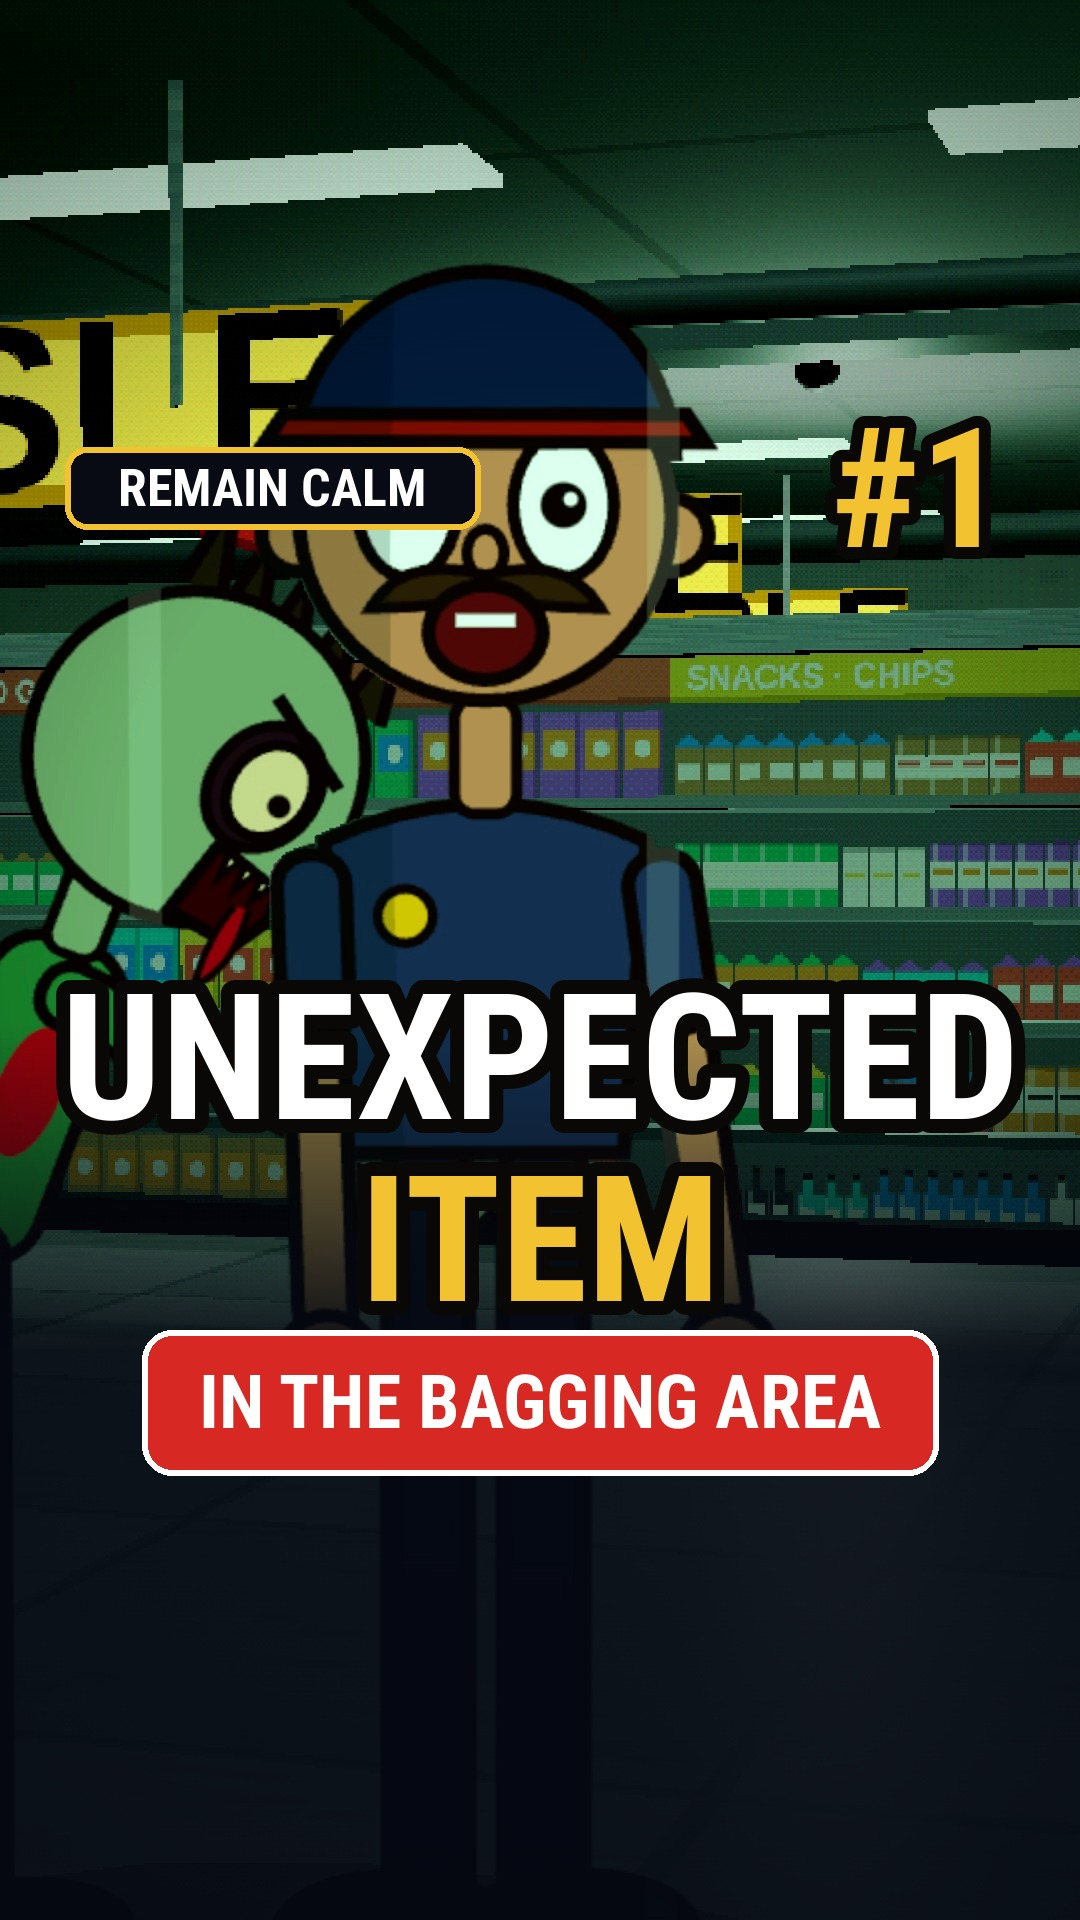
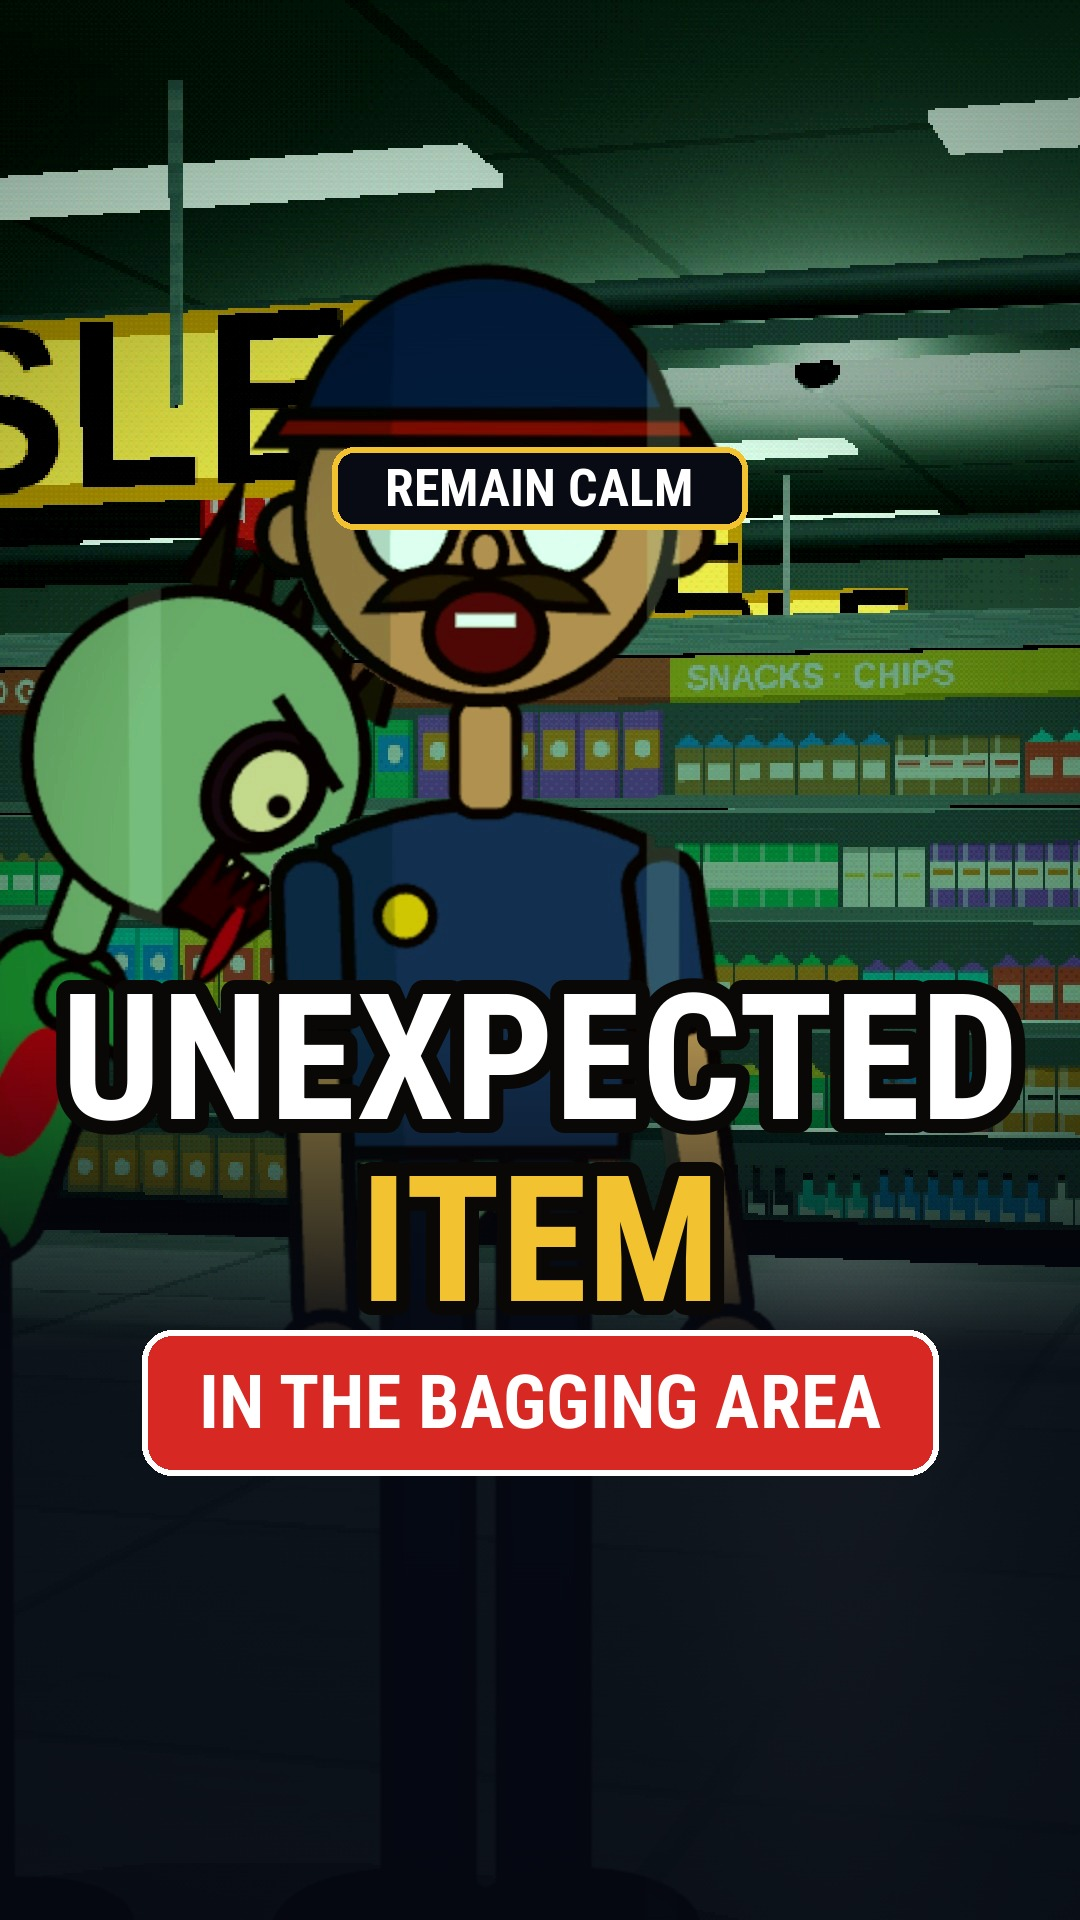
Covers without sequence numbers; redo-capable batch posting script
Claude-Session: https://claude.ai/code/session_01AhwUxu1FBH8sDaZQZihRT9

Changed region(s): [[0.0611, 0.2188, 0.7028, 0.2812], [0.7639, 0.2188, 0.9167, 0.3125]]

diff --git a/studio/autopilot/post_batch1.py b/studio/autopilot/post_batch1.py
@@ -17,6 +17,14 @@ M=[ # id, order, title, extra tags, tt/ig hook, description line
  ('i4','If the zombie apocalypse starts while you\'re in the parking lot… don\'t run to your car','parking lot, dont run, how to stay calm','Calm gets you to the car. Fear gets you noticed.','Real tip: when you are startled, a long slow exhale helps you settle.'),
  ('i3','If the zombie apocalypse starts while you\'re in the checkout line… don\'t look back','checkout line, dont look back, queue','Pay. Smile. Walk out slowly.','Real tip: when you are scared, a slow exhale helps you calm down.'),
  ('g8','POV: You\'re locked out of the supermarket and a zombie asks if they\'re open','locked out, closed sign, pov','We\'re closed.','Sorry, sir. Please remain calm.')]
+import buffer_api as B
+def wipe(s,c):
+    for k,p in list((c.get('posts') or {}).items()):
+        r=B.gql('mutation($input: DeletePostInput!){ deletePost(input:$input){ __typename } }',dict(input=dict(id=p)))
+        t=((r.get('data') or {}).get('deletePost') or {}).get('__typename')
+        if not t or 'Error' in t or r.get('errors'):ST.save(s);raise SystemExit(f'{c["id"]} delete {k} failed (rate limit?): {str(r)[:160]}')
+        del c['posts'][k];time.sleep(1.0)
+    c['posts']={};c['status']='ready';c.pop('media_day',None);ST.save(s)
 def main():
     s=ST.load();start=dt.datetime(2026,11,1,0,30);n=0
     for i,(k,title,xt,hook,desc) in enumerate(M):
@@ -29,11 +37,12 @@ def main():
              tt=f"REMAIN CALM · {hook} Calm or run? 🧟 #zombie #zombiecomedy #remaincalm #fyp",ig=f"REMAIN CALM · {hook} Calm or run? 🧟 #zombie #zombiecomedy #animation #reels #remaincalm",
              pin='Would you stay calm or run? Comment CALM or RUN.',tags=tags,playlist='REMAIN CALM',video=f'{od}/{k}.mp4',thumb=f'{od}/cover_9x16.jpg',caps_en=f'{od}/captions_en.srt',caps_th=f'{od}/captions_en.srt',status='ready',done={},due=due)
             s['clips'].append(c);ST.save(s)
-        if c.get('status')!='scheduled':c['due']=due
+        if not (c.get('v2') and c.get('status')=='scheduled'):c['due']=due
         if len(c['yt_title'])>100:raise SystemExit(f'{cid}: title {len(c["yt_title"])} > 100')
-        if c.get('status')=='scheduled':print(cid,'already scheduled');continue
+        if c.get('v2') and c.get('status')=='scheduled':print(cid,'already scheduled (v2)');continue
+        if not c.get('v2') and c.get('posts'):print(cid,'removing old-cover posts');wipe(s,c)
         print(cid,due,c['yt_title'][:70])
         if dry:continue
-        PC.schedule(s,cid,False,True);n+=1;time.sleep(6)
+        PC.schedule(s,cid,False,True);c=ST.find(s,cid);c['v2']=True;ST.save(s);n+=1;time.sleep(6)
     print('scheduled',n)
 main()

diff --git a/studio/free3d/package_rc.py b/studio/free3d/package_rc.py
@@ -55,8 +55,9 @@ def cover_ref(base,part='PART 1',l1='THE DEAD',l2='SMELL FEAR',pill='12 SHOPPERS
     for y in range(1020,1920):d.line([(0,y),(1080,y)],fill=(5,8,18,int(235*min(1,(y-1020)/330))))
     img=Image.alpha_composite(img.convert('RGBA'),ov).convert('RGB');d=ImageDraw.Draw(img)
     f_cap=ImageFont.truetype(FONT,52);f_part=ImageFont.truetype(FONT,168);f_big=ImageFont.truetype(FONT,176);f_pill=ImageFont.truetype(FONT,74)
-    d.rounded_rectangle((65,447,65+415,447+82),radius=22,fill=(8,10,20),outline=(242,194,48),width=6);d.text((272,488),'REMAIN CALM',font=f_cap,fill=(255,255,255),anchor='mm')
-    outlined(d,(1005,490),part,f_part,(242,194,48),w=12,anchor='rm')
+    bx0=65 if part else 332
+    d.rounded_rectangle((bx0,447,bx0+415,447+82),radius=22,fill=(8,10,20),outline=(242,194,48),width=6);d.text((bx0+207,488),'REMAIN CALM',font=f_cap,fill=(255,255,255),anchor='mm')
+    if part:outlined(d,(1005,490),part,f_part,(242,194,48),w=12,anchor='rm')
     outlined(d,(540,1058),l1,f_big,(255,255,255),w=14);outlined(d,(540,1240),l2,f_big,(242,194,48),w=14)
     d.rounded_rectangle((142,1330,938,1475),radius=30,fill=(216,40,36),outline=(255,255,255),width=6);d.text((540,1403),pill,font=f_pill,fill=(255,255,255),anchor='mm')
     return img

diff --git a/studio/free3d/package_batch.py b/studio/free3d/package_batch.py
@@ -16,7 +16,7 @@ def one(k):
     # camera keyframes already relative; keep chars as authored (positions at shot start)
     p=R+f'/spec_{k}_cover.json';json.dump(sp,open(p,'w'));d=R+f'/out/{k}_cover';os.makedirs(d,exist_ok=True)
     subprocess.check_call(['node',R+'/render_store3.js',p,d,'20','21','1080','1920','&2d'],cwd=R);base=R+f'/out/{k}_cover_base.jpg';os.replace(d+'/00020.jpg',base)
-    img=P.cover_ref(base,f'#{NUM[k]}',l1,l2,pill);img.save(f'{od}/cover_9x16.jpg',quality=92);P.preview(img,f'{od}/cover_preview.jpg')
+    img=P.cover_ref(base,'',l1,l2,pill);img.save(f'{od}/cover_9x16.jpg',quality=92);P.preview(img,f'{od}/cover_preview.jpg')
     for i in range(4):img.save(f'{frames}/{i:05d}.jpg',quality=93)
     open(f'{od}/captions_en.srt','w').write(P.srt(ep))
     wav=R+f'/out/{k}.wav'
